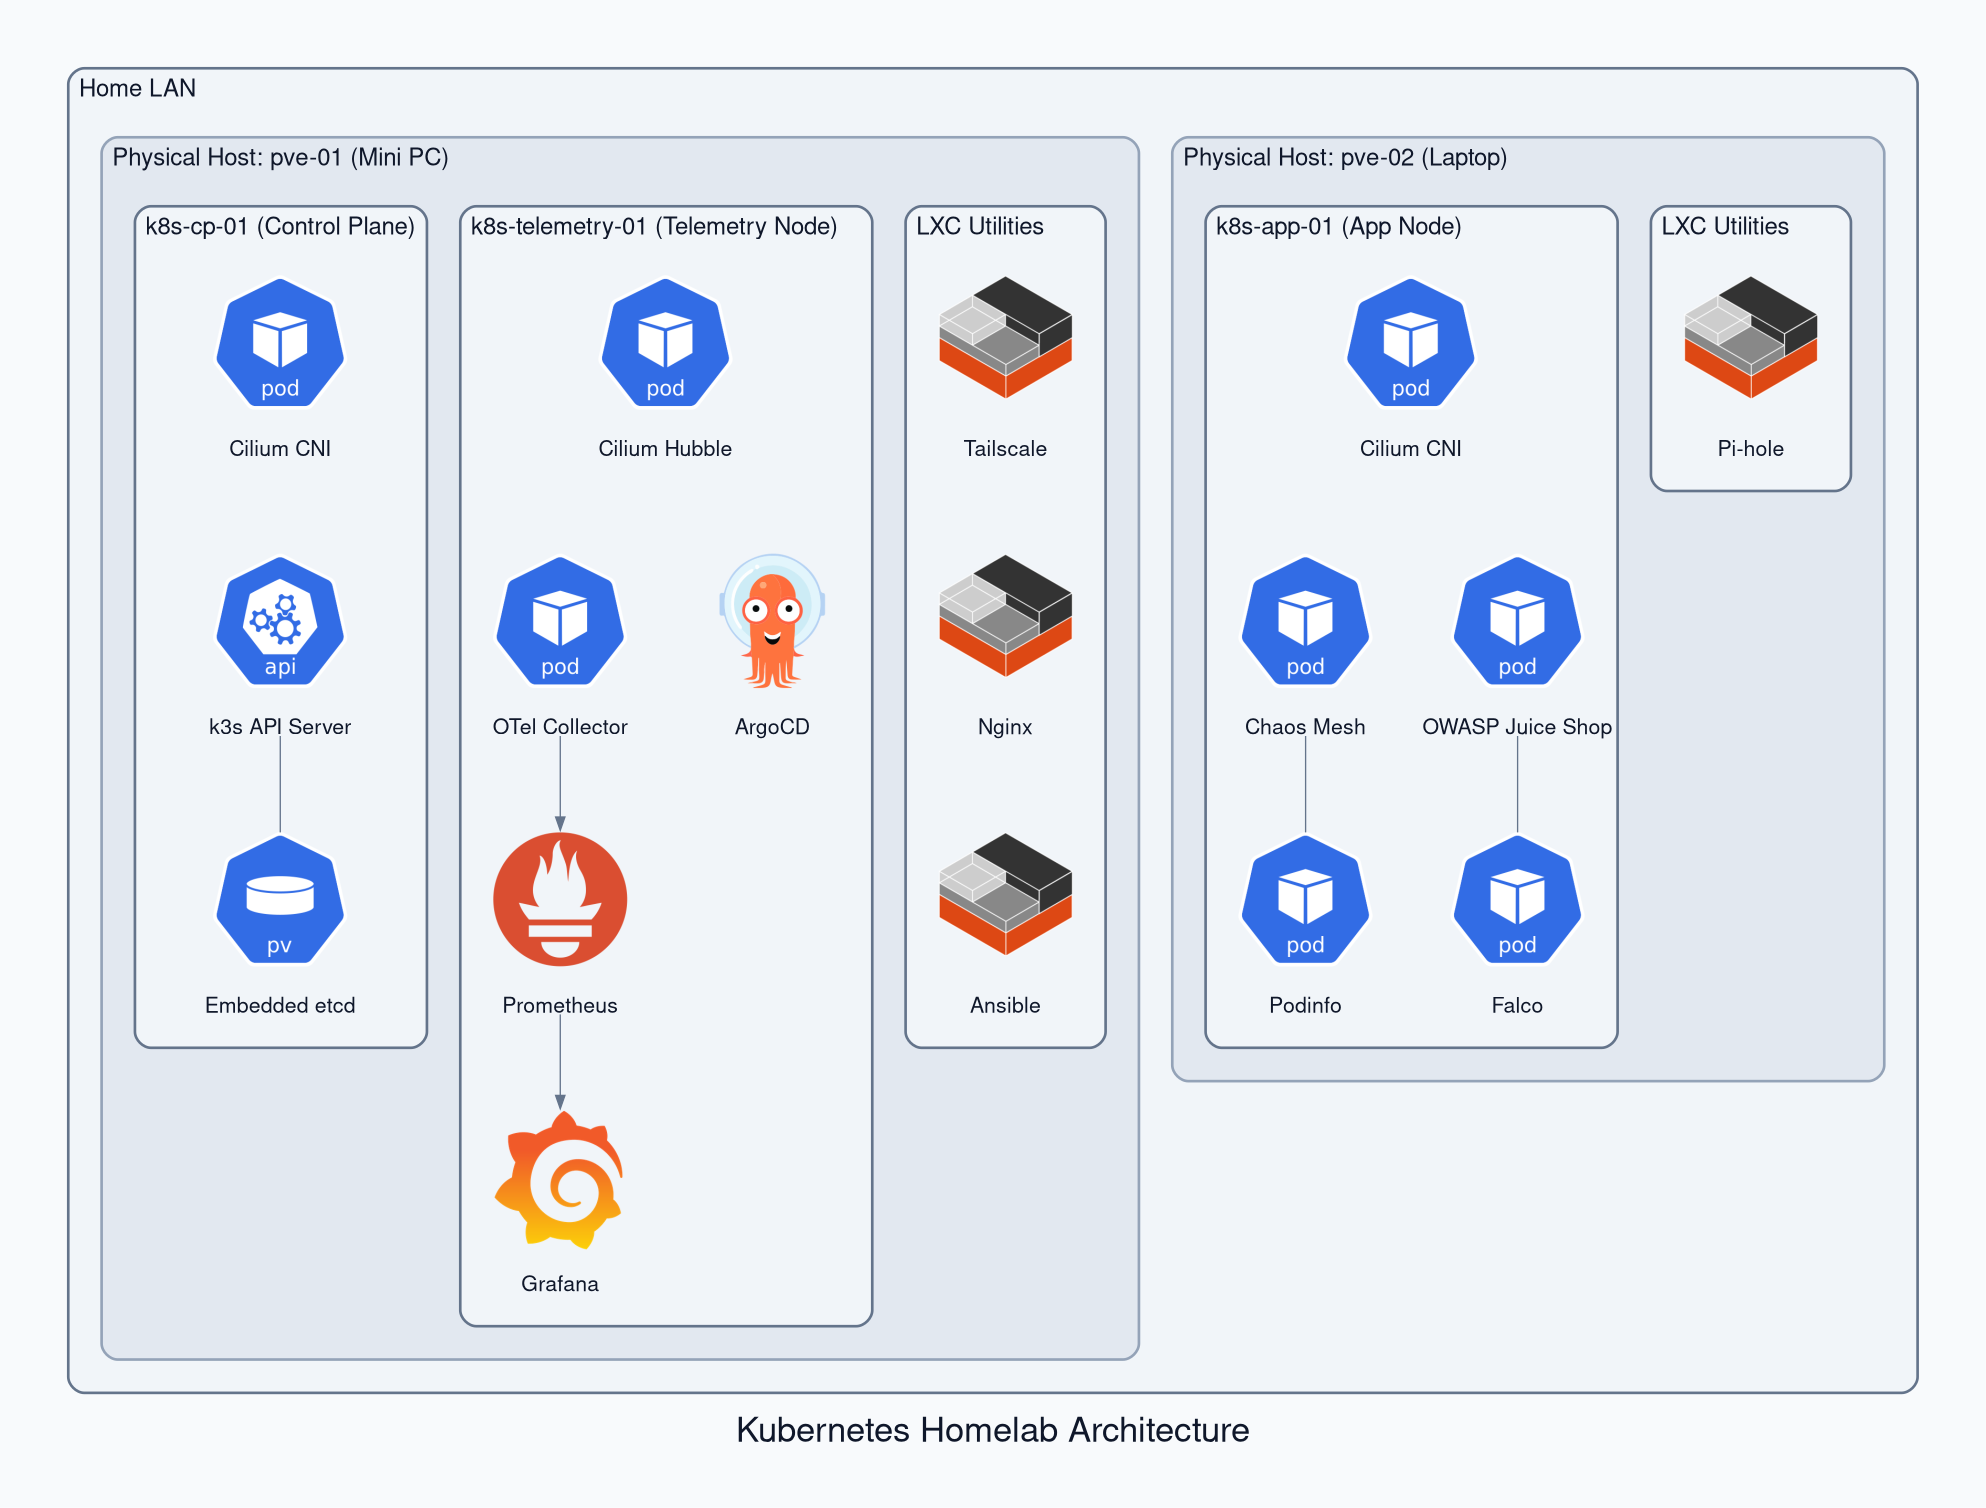
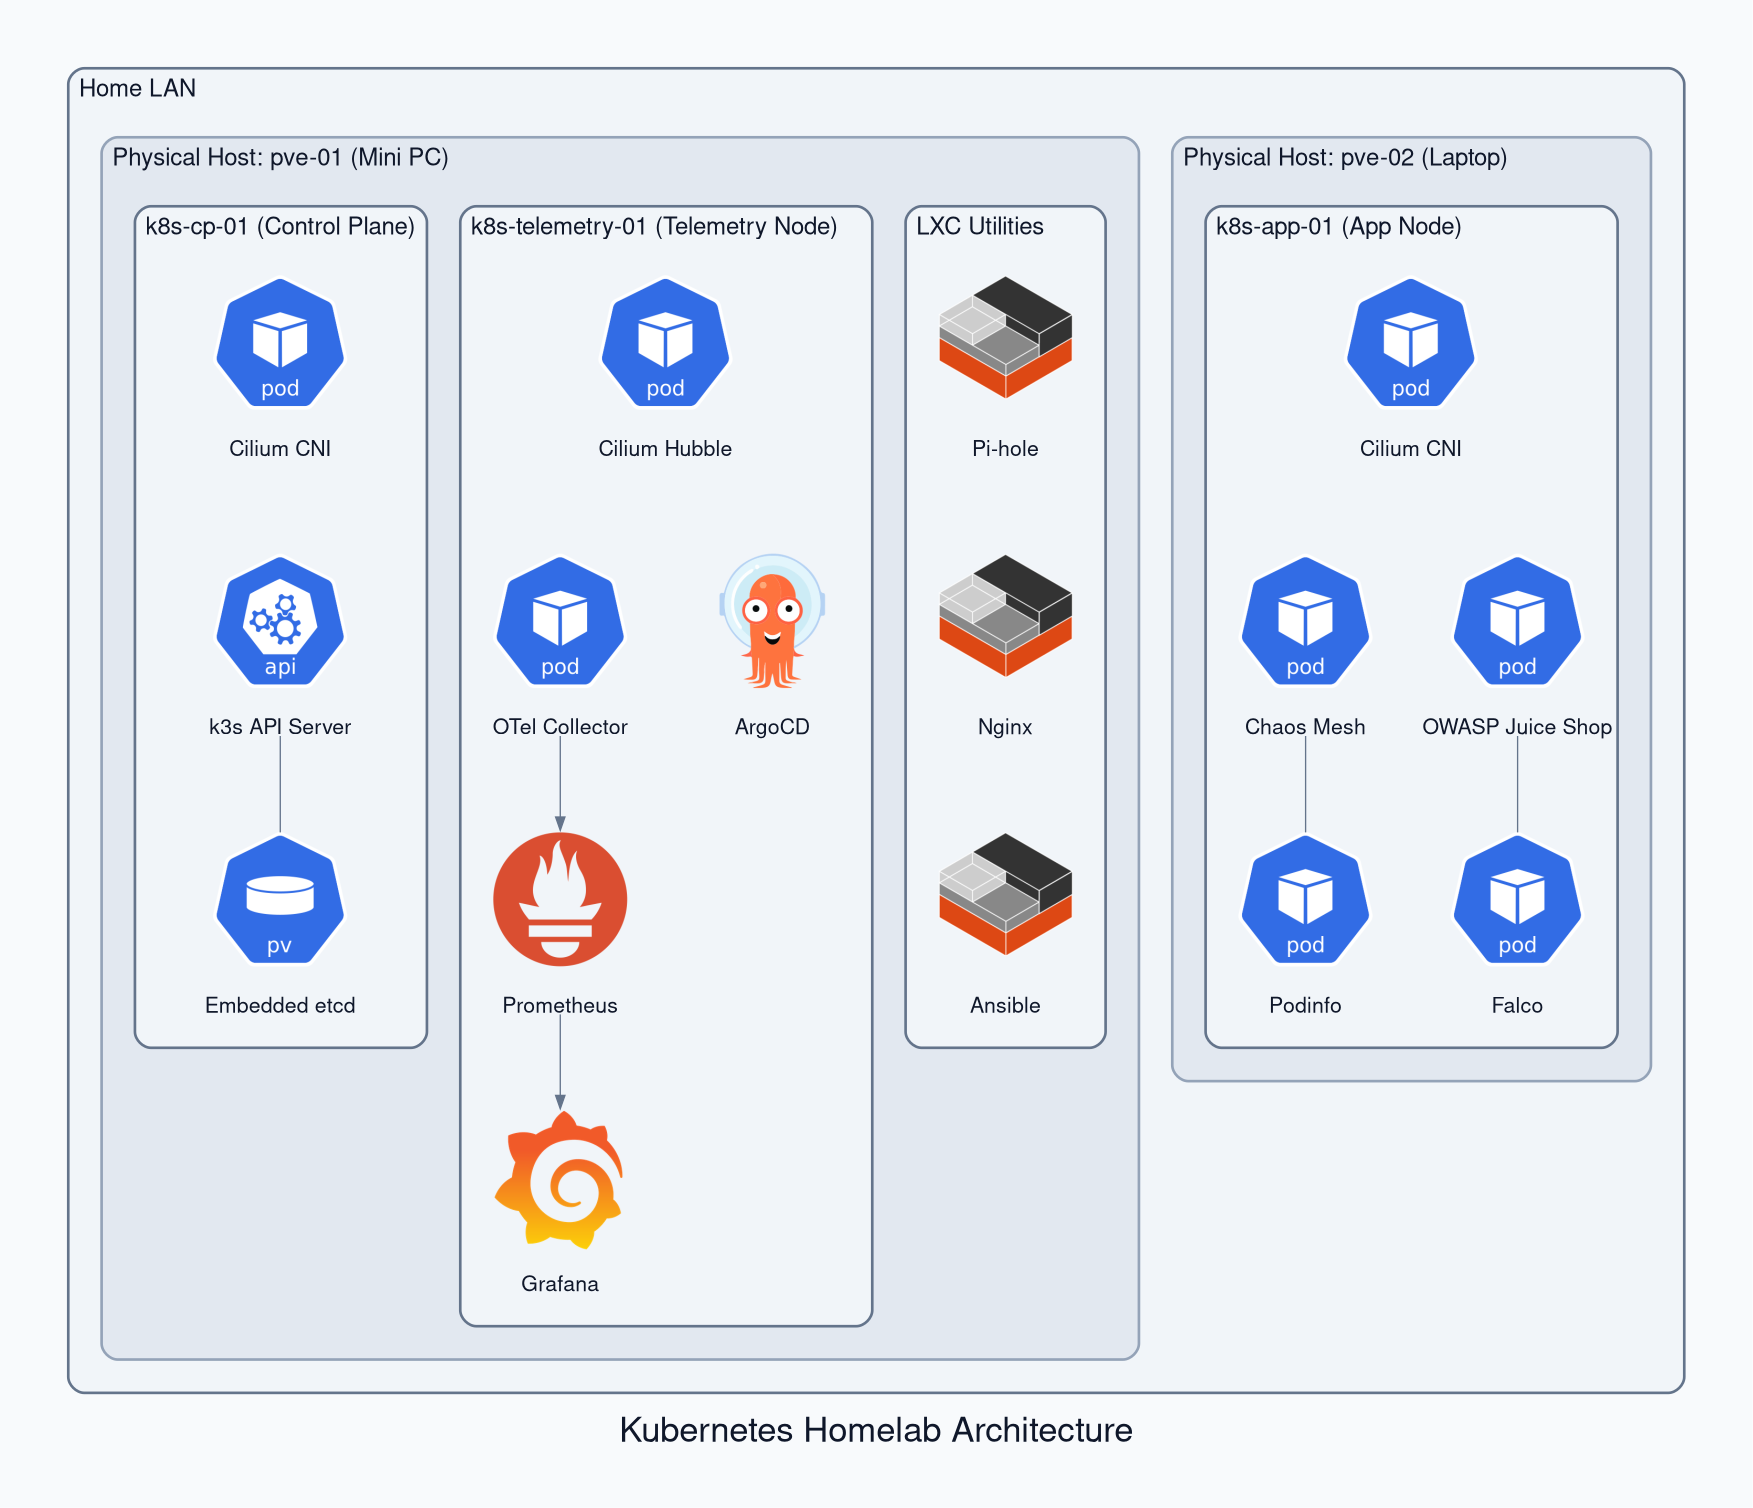
refactor(platform): decouple pipelines and decommission tailscale (#55)

Changed region(s): [[0.0308, 0.0312, 0.9857, 0.9038], [0.2464, 0.7168, 0.3697, 0.8727], [0.3388, 0.935, 0.6469, 0.9662]]

diff --git a/scripts/generate_diagram.py b/scripts/generate_diagram.py
@@ -173,11 +173,11 @@ with Diagram(
                 prom >> grafana
 
             with Cluster("LXC Utilities", graph_attr=cluster_outer_attr):
-                tailscale = LXC("Tailscale")
-                nginx = LXC("Nginx")
                 ansible = LXC("Ansible")
+                pihole = LXC("Pi-hole")
+                nginx = LXC("Nginx")
 
-                tailscale >> Edge(style="invis") >> nginx >> Edge(style="invis") >> ansible
+                pihole >> Edge(style="invis") >> nginx >> Edge(style="invis") >> ansible
 
         with Cluster("Physical Host: pve-02 (Laptop)", graph_attr=cluster_inner_attr):
             with Cluster("k8s-app-01 (App Node)", graph_attr=cluster_outer_attr):
@@ -191,9 +191,6 @@ with Diagram(
                 cilium_app >> Edge(style="invis") >> juice
                 chaos - Edge(color="#64748b") - podinfo
                 juice - Edge(color="#64748b") - falco
-
-            with Cluster("LXC Utilities", graph_attr=cluster_outer_attr):
-                pihole = LXC("Pi-hole")
 
 
 # ==============================================================================

diff --git a/docs/provisioning.md b/docs/provisioning.md
@@ -9,8 +9,9 @@ This guide covers the three sequential provisioning layers that build the homela
 | Layer | Primary Tooling | Responsibilities & Scope |
 | :--- | :--- | :--- |
 | **Layer 1: Infrastructure** | OpenTofu & Proxmox VE | Physical hypervisor clustering, Corosync QDevice quorum tiebreaker, Chrony NTP synchronization, Ubuntu cloud-init templates, and automated VM/LXC provisioning |
-| **Layer 2: Node OS Baseline** | Ansible | Kernel modules (`overlay`, `br_netfilter`), swap deactivation, sysctl parameters, Pi-hole DNS sinkhole, and Tailscale VPN gateway |
-| **Layer 3: Declarative GitOps** | k3s & ArgoCD | k3s control plane, Cilium eBPF network fabric, ArgoCD App-of-Apps sync waves, and Nginx reverse proxy dashboard routing |
+| **Layer 2: Node OS Baseline** | Ansible | Kernel modules (`overlay`, `br_netfilter`), swap deactivation, sysctl parameters, and core troubleshooting packages |
+| **Layer 3: Declarative GitOps** | k3s & ArgoCD | k3s control plane, Cilium eBPF network fabric, and ArgoCD App-of-Apps sync waves |
+| **Utility Services** | Ansible | Standalone Debian LXC containers hosting auxiliary network and infrastructure services |
 
 ---
 
@@ -157,17 +158,16 @@ Alongside the Kubernetes virtual machines, OpenTofu provisions unprivileged Debi
 | Container | ID | Host | IP Mode | Operational Purpose |
 | :--- | :--- | :--- | :--- | :--- |
 | **`ansible`** | `CT 300` | `pve-01` | DHCP | Dedicated automation controller node running playbooks across the fleet |
-| **`tailscale`** | `CT 301` | `pve-01` | DHCP | Encrypted mesh VPN subnet router gateway (`homelab_subnet`) |
+| **`pihole`** | `CT 301` | `pve-01` | Static / DHCP | Local DNS sinkhole and wildcard domain resolver (`*.homelab.local`) |
 | **`nginx`** | `CT 302` | `pve-01` | DHCP | Local reverse proxy and SSL gateway for cluster dashboards |
-| **`pihole`** | `CT 303` | `pve-01` | Static / DHCP | Local DNS sinkhole and wildcard domain resolver (`*.homelab.local`) |
 
 ---
 
-## Layer 2: Node OS Baseline & Utility Services Provisioning
+## Layer 2: Node OS Baseline Provisioning
 
-Before bootstrapping Kubernetes, all VM nodes must have active swap disabled, kernel networking modules loaded, and sysctl packet forwarding rules applied. Additionally, foundational utility containers (Pi-hole DNS and Tailscale VPN) are provisioned.
+Before bootstrapping Kubernetes, all VM nodes must have active swap disabled, kernel networking modules loaded, and sysctl packet forwarding rules applied.
 
-This baseline tuning and utility automation is orchestrated using Ansible from the dedicated controller container on `pve-01`:
+This baseline tuning is orchestrated using Ansible from the dedicated controller container on `pve-01`:
 
 - **Access the Controller Container (`pve-01`):**
 
@@ -222,46 +222,6 @@ The baseline playbook enforces the following system configurations across all no
 - **Sysctl Parameters:** Enables IP packet forwarding (`net.ipv4.ip_forward = 1`) and bridge netfilter calls.
 - **Core Packages:** Installs essential troubleshooting utilities (`curl`, `git`, `jq`, `tcpdump`, `socat`, `htop`, `tar`).
 
-### Utility Containers Provisioning
-
-Standalone Debian LXC utility containers are configured with auxiliary services:
-
-- **Local Wildcard DNS Sinkhole (`02-setup-pihole.yml`):**
-
-  ```bash
-  ansible-playbook -i inventory.ini playbooks/02-setup-pihole.yml
-  ```
-
-  Verify Pi-hole status (via Ansible controller or directly on the `pihole` container):
-
-  ```bash
-  ansible -i inventory.ini dns -m command -a "pihole status"
-  ```
-
-- **Encrypted Mesh Subnet Router (`03-setup-tailscale.yml`):**
-
-  Because Tailscale operates inside an unprivileged LXC container, `/dev/net/tun` device passthrough must be enabled on the Proxmox host (`pve-01`) before starting the service:
-
-  ```bash
-  cat << 'EOF' >> /etc/pve/lxc/301.conf
-  lxc.cgroup2.devices.allow: c 10:200 rwm
-  lxc.mount.entry: /dev/net/tun dev/net/tun none bind,create=file
-  EOF
-  pct reboot 301
-  ```
-
-  Deploy the Tailscale configuration from the Ansible controller:
-
-  ```bash
-  ansible-playbook -i inventory.ini playbooks/03-setup-tailscale.yml
-  ```
-
-  Verify Tailscale status (via Ansible controller or directly on the `tailscale` container):
-
-  ```bash
-  ansible -i inventory.ini vpn -m command -a "tailscale status"
-  ```
-
 ---
 
 ## Layer 3: Declarative GitOps & Cluster Provisioning
@@ -286,12 +246,12 @@ To run against a single specific node (for example, `k8s-cp-01`):
 ansible -i inventory.ini k8s-cp-01 -m ansible.builtin.script -a "../bootstrap/00-preflight.sh"
 ```
 
-### Cluster Nodes Bootstrap (`04-bootstrap-cluster.yml`)
+### Cluster Nodes Bootstrap (`02-bootstrap-cluster.yml`)
 
 The cluster nodes playbook orchestrates the initialization of the control plane and automated joining of worker nodes without manual token copying:
 
 ```bash
-ansible-playbook -i inventory.ini playbooks/04-bootstrap-cluster.yml
+ansible-playbook -i inventory.ini playbooks/02-bootstrap-cluster.yml
 ```
 
 This playbook runs across three sequential plays:
@@ -315,12 +275,12 @@ kubectl get nodes -o wide
 ??? note "Screenshot: Cluster Nodes & Role Classification Status"
     ![Cluster Nodes Status](assets/screenshots/k3s-cluster-nodes.png)
 
-### In-Cluster Platform & Network Services (`05-setup-cluster-services.yml`)
+### In-Cluster Platform & Network Services (`03-setup-cluster-services.yml`)
 
 With nodes joined, deploy core networking, GitOps, and platform resilience tools to `k8s-cp-01`:
 
 ```bash
-ansible-playbook -i inventory.ini playbooks/05-setup-cluster-services.yml
+ansible-playbook -i inventory.ini playbooks/03-setup-cluster-services.yml
 ```
 
 This playbook injects `KUBECONFIG: /etc/rancher/k3s/k3s.yaml` and deploys three platform tiers:
@@ -407,12 +367,32 @@ kubectl --kubeconfig=$HOME/.kube/k8s get pods -A
 ??? note "Screenshot: ArgoCD Dashboard & Application Tree"
       ![ArgoCD App-of-Apps Dashboard](assets/screenshots/argocd-app-of-apps.png)
 
-### Ingress Gateway & Reverse Proxy Setup (`06-setup-nginx.yml`)
+---
+
+## Utility Containers Provisioning
+
+Standalone Debian LXC utility containers on `pve-01` host external network services to provide local wildcard DNS resolution and unified reverse proxy routing:
+
+### Local DNS Sinkhole & Wildcard Routing (`04-setup-pihole.yml`)
+
+Configure the Pi-hole container to establish network-wide DNS filtering and internal wildcard resolution (`*.homelab.local`):
+
+```bash
+ansible-playbook -i inventory.ini playbooks/04-setup-pihole.yml
+```
+
+Verify Pi-hole status (via Ansible controller or directly on the `pihole` container):
+
+```bash
+ansible -i inventory.ini dns -m command -a "pihole status"
+```
+
+### Ingress Gateway & Reverse Proxy Setup (`05-setup-nginx.yml`)
 
 Deploy the Nginx gateway configuration to the `nginx` container to establish reverse proxy routes for all platform dashboards:
 
 ```bash
-ansible-playbook -i inventory.ini playbooks/06-setup-nginx.yml
+ansible-playbook -i inventory.ini playbooks/05-setup-nginx.yml
 ```
 
 Verify Nginx status and virtual host routes (via Ansible controller or directly on the `nginx` container):
@@ -457,19 +437,41 @@ Access all homelab dashboards in your browser via the managed reverse proxy rout
 
 ---
 
-## Master Pipeline Orchestration (`site.yml`)
+## Pipeline Orchestration
 
-For zero-touch full-fleet provisioning and disaster recovery drills ("The Phoenix Rebuild"), the entire platform from bare virtual machines to reverse proxy ingress can be executed sequentially using the master orchestrator playbook:
+For automated provisioning and disaster recovery drills ("The Phoenix Rebuild"), the platform provides modular pipelines that can be executed independently or chained together:
+
+### 1. Cluster Bootstrap Pipeline (`bootstrap.yml`)
+
+Provisions the complete Kubernetes cluster and platform services without external dependencies:
+
+```bash
+ansible-playbook -i inventory.ini bootstrap.yml
+```
+
+This pipeline executes the three core cluster playbooks:
+
+- `playbooks/01-setup-vms.yml`: Base OS hardening, swap disabling, kernel networking modules, and sysctl rules.
+- `playbooks/02-bootstrap-cluster.yml`: k3s control plane initialization, token capture, and worker node joining.
+- `playbooks/03-setup-cluster-services.yml`: In-cluster Cilium eBPF CNI, ArgoCD GitOps engine, and Chaos Mesh platform.
+
+### 2. Utility Services Pipeline (`utilities.yml`)
+
+Provisions auxiliary network services for local DNS resolution and reverse proxy dashboard ingress:
+
+```bash
+ansible-playbook -i inventory.ini utilities.yml
+```
+
+This pipeline executes the utility container playbooks:
+
+- `playbooks/04-setup-pihole.yml`: Local DNS sinkhole and wildcard domain routing (`*.homelab.local`).
+- `playbooks/05-setup-nginx.yml`: Ingress gateway virtual host routing for all 7 platform dashboards.
+
+### 3. Full Platform Pipeline (`site.yml`)
+
+Chains both pipelines in strict sequence for full-fleet, zero-touch disaster recovery:
 
 ```bash
 ansible-playbook -i inventory.ini site.yml
 ```
-
-This master orchestrator runs all six numbered playbooks in strict dependency order:
-
-- `playbooks/01-setup-vms.yml`: Base OS hardening, swap disabling, kernel networking modules, and sysctl rules.
-- `playbooks/02-setup-pihole.yml`: Local DNS sinkhole and wildcard domain routing (`*.homelab.local`).
-- `playbooks/03-setup-tailscale.yml`: Encrypted mesh VPN subnet router gateway.
-- `playbooks/04-bootstrap-cluster.yml`: k3s control plane initialization, token capture, and worker node joining.
-- `playbooks/05-setup-cluster-services.yml`: In-cluster Cilium eBPF CNI, ArgoCD GitOps engine, and Chaos Mesh platform.
-- `playbooks/06-setup-nginx.yml`: Ingress gateway virtual host routing for all 7 platform dashboards.

diff --git a/docs/adr/006-orchestrated-cluster-bootstrap-via-ansible-scripts.md b/docs/adr/006-orchestrated-cluster-bootstrap-via-ansible-scripts.md
@@ -28,18 +28,21 @@ Implement an orchestrated hybrid bootstrap architecture combining Ansible plays 
 - Preserve clean, standalone bash scripts under `bootstrap/` (`01-k3s-server.sh`, `02-k3s-agent.sh`, `03-cni-cilium.sh`, `04-gitops-argocd.sh`, `05-chaos-mesh.sh`). Standalone scripts retain syntax highlighting, direct linting with `shellcheck`, and local testing capabilities (`--dry-run`, `--version`).
 - Orchestrate script execution remotely using Ansible's `ansible.builtin.script` module. Ansible transfers the script temporarily to the target VM over SSH, executes it with the required arguments, and deletes the temporary binary.
 
-### Numbered Sequential Pipeline
+### Decoupled Sequential Pipeline
 
 Structure all automation playbooks into sequential numbered stages under `ansible/playbooks/`:
 
 - `01-setup-vms.yml`: Base OS tuning, swap disabling, kernel modules, and sysctl rules.
-- `02-setup-pihole.yml`: Local wildcard DNS sinkhole (`*.homelab.local`).
-- `03-setup-tailscale.yml`: Encrypted mesh VPN subnet router.
-- `04-bootstrap-cluster.yml`: Control plane initialization, in-memory token distribution, and worker node onboarding.
-- `05-setup-cluster-services.yml`: In-cluster Cilium eBPF CNI, ArgoCD continuous delivery engine, and Chaos Mesh platform.
-- `06-setup-nginx.yml`: Ingress gateway virtual host routing for all `*.homelab.local` endpoints.
+- `02-bootstrap-cluster.yml`: Control plane initialization, in-memory token distribution, and worker node onboarding.
+- `03-setup-cluster-services.yml`: In-cluster Cilium eBPF CNI, ArgoCD continuous delivery engine, and Chaos Mesh platform.
+- `04-setup-pihole.yml`: Local DNS sinkhole and wildcard domain routing (`*.homelab.local`).
+- `05-setup-nginx.yml`: Ingress gateway virtual host routing for all `*.homelab.local` endpoints.
 
-A root orchestrator playbook (`ansible/site.yml`) imports all six numbered stages in order for single-command end-to-end execution.
+Organize orchestration into decoupled top-level playbooks:
+
+- `bootstrap.yml`: Provisions the Kubernetes cluster core (`01`, `02`, `03`).
+- `utilities.yml`: Configures auxiliary utility containers (`04`, `05`).
+- `site.yml`: Top-level orchestrator importing both pipelines in order for single-command end-to-end execution.
 
 ### In-Memory Token Distribution
 
@@ -69,7 +72,7 @@ A root orchestrator playbook (`ansible/site.yml`) imports all six numbered stage
 
 ## Verification
 
-- [x] **Cluster Node Joining:** Verify `04-bootstrap-cluster.yml` initializes `k8s-cp-01` and joins `k8s-telemetry-01` and `k8s-app-01` cleanly with control-plane role classification.
-- [x] **Platform Services Bootstrap:** Verify `05-setup-cluster-services.yml` deploys Cilium, ArgoCD, and Chaos Mesh, with all pods reaching `Running` status.
-- [x] **Gateway Routing:** Verify `06-setup-nginx.yml` configures virtual host routes and enables access across all `*.homelab.local` endpoints.
+- [x] **Cluster Node Joining:** Verify `02-bootstrap-cluster.yml` initializes `k8s-cp-01` and joins `k8s-telemetry-01` and `k8s-app-01` cleanly with control-plane role classification.
+- [x] **Platform Services Bootstrap:** Verify `03-setup-cluster-services.yml` deploys Cilium, ArgoCD, and Chaos Mesh, with all pods reaching `Running` status.
+- [x] **Gateway Routing:** Verify `05-setup-nginx.yml` configures virtual host routes and enables access across all `*.homelab.local` endpoints.
 - [x] **Full Pipeline Drill:** Execute the complete Phoenix Rebuild from bare VMs through `site.yml` end to end to confirm zero-touch reproducibility.

diff --git a/docs/journey.md b/docs/journey.md
@@ -139,5 +139,8 @@ With individual components automated, the final friction point emerged: the hand
 
 This prompted [ADR 006](adr/006-orchestrated-cluster-bootstrap-via-ansible-scripts.md) and the final operational refinements:
 
-* **Master Orchestration (`site.yml`):** Chaining VM baselines, cluster bootstrapping, Cilium CNI, and ArgoCD in strict sequence, passing join tokens in Ansible memory without manual intervention.
+* **Pipeline Orchestration:** Decoupling cluster provisioning from auxiliary services using modular playbooks:
+    * `bootstrap.yml`: Provisions the Kubernetes cluster core.
+    * `utilities.yml`: Configures utility containers.
+    * `site.yml`: Sequences both cluster bootstrap and utility configuration for complete bare-metal reconstruction.
 * **Golden Image Baking:** Using `virt-customize` on the cloud-init template to pre-bake `qemu-guest-agent` and truncate `/etc/machine-id`, eliminating API timeouts and duplicate DHCP leases.
